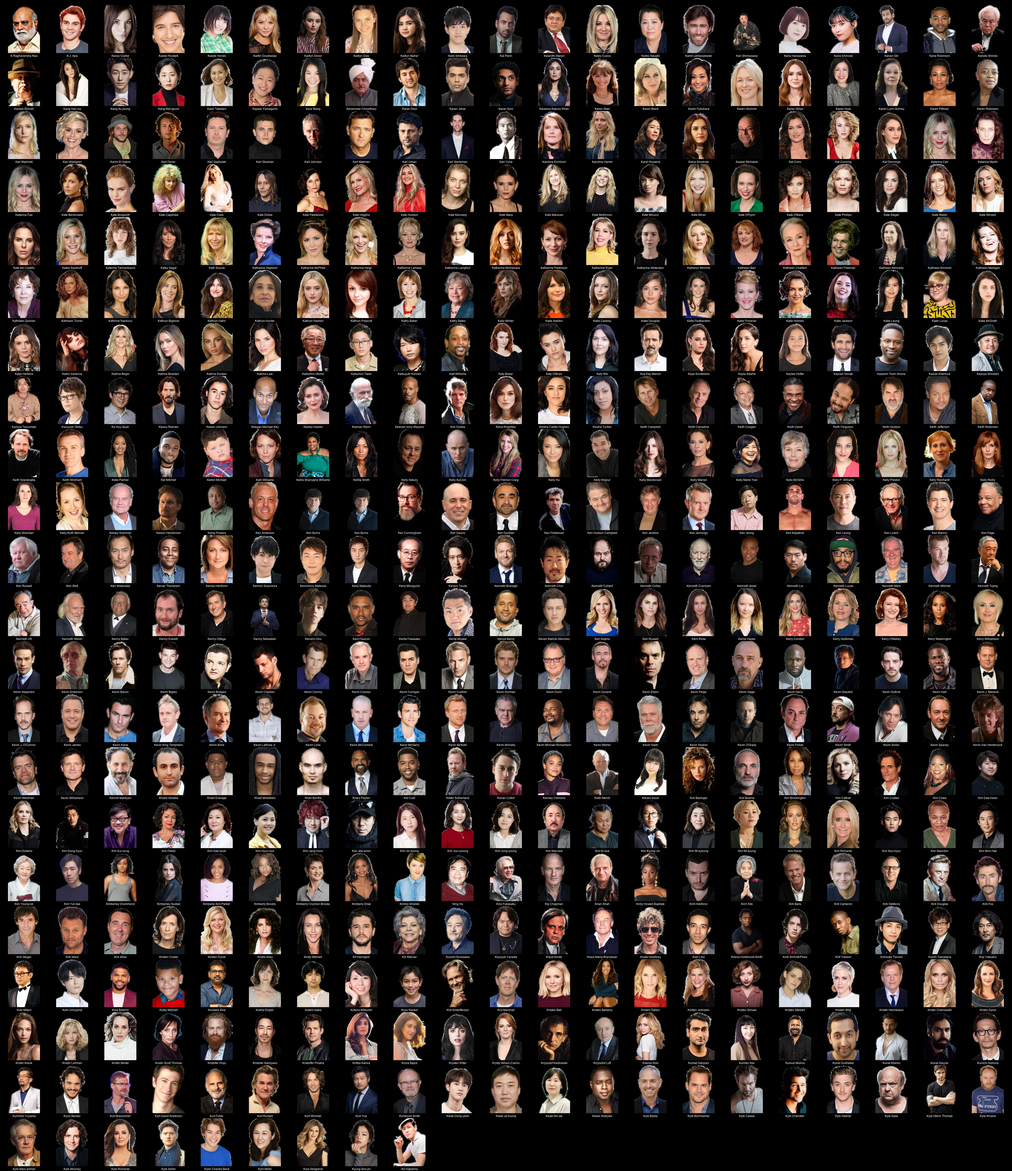
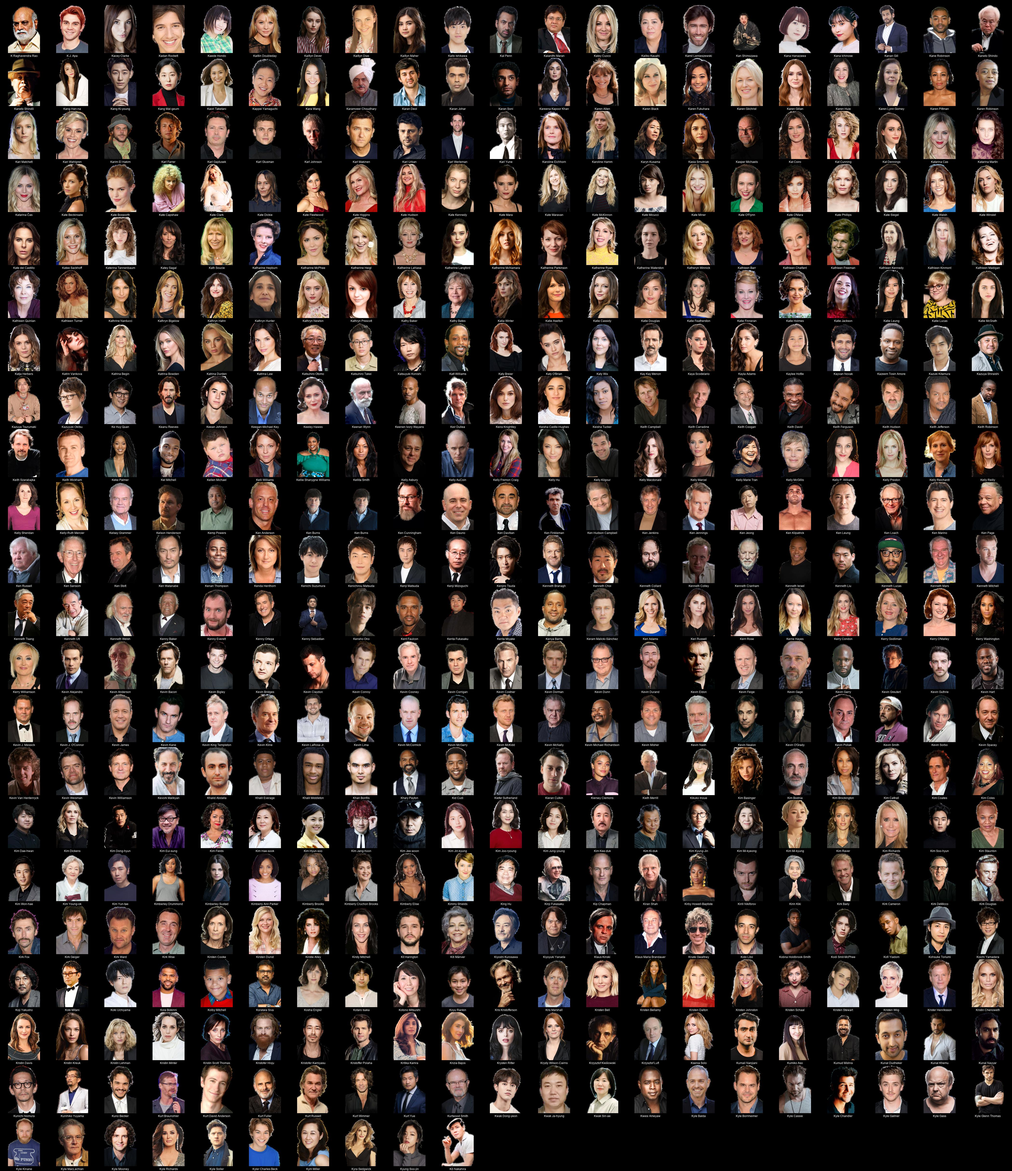
more grids

Changed region(s): [[0.0, 0.435, 0.9981, 1.0]]

diff --git a/README.md b/README.md
@@ -1,10 +1,10 @@
-# Kometa People Images - Transparent (transparent) (9348 Images)
+# Kometa People Images - Transparent (transparent) (9354 Images)
 
 <details><summary><a href="'">' (1 Images)</a></summary>
 
 * ['Weird Al' Yankovic](https://raw.githubusercontent.com/Kometa-Team/People-Images-transparent/master/'/Images/%27Weird%20Al%27%20Yankovic.png)
 </details>
-<details><summary><a href="A">A (764 Images)</a></summary>
+<details><summary><a href="A">A (765 Images)</a></summary>
 
 * [Aamir Khan](https://raw.githubusercontent.com/Kometa-Team/People-Images-transparent/master/A/Images/Aamir%20Khan.png)
 * [Aanand L. Rai](https://raw.githubusercontent.com/Kometa-Team/People-Images-transparent/master/A/Images/Aanand%20L.%20Rai.png)
@@ -561,6 +561,7 @@
 * [Annabelle Wallis](https://raw.githubusercontent.com/Kometa-Team/People-Images-transparent/master/A/Images/Annabelle%20Wallis.png)
 * [Annaleigh Ashford](https://raw.githubusercontent.com/Kometa-Team/People-Images-transparent/master/A/Images/Annaleigh%20Ashford.png)
 * [Annalisa Cochrane](https://raw.githubusercontent.com/Kometa-Team/People-Images-transparent/master/A/Images/Annalisa%20Cochrane.png)
+* [Anndi McAfee](https://raw.githubusercontent.com/Kometa-Team/People-Images-transparent/master/A/Images/Anndi%20McAfee.png)
 * [Anne Archer](https://raw.githubusercontent.com/Kometa-Team/People-Images-transparent/master/A/Images/Anne%20Archer.png)
 * [Anne Bancroft](https://raw.githubusercontent.com/Kometa-Team/People-Images-transparent/master/A/Images/Anne%20Bancroft.png)
 * [Anne Baxter](https://raw.githubusercontent.com/Kometa-Team/People-Images-transparent/master/A/Images/Anne%20Baxter.png)
@@ -771,7 +772,7 @@
 * [Azhar Usman](https://raw.githubusercontent.com/Kometa-Team/People-Images-transparent/master/A/Images/Azhar%20Usman.png)
 * [Aziz Ansari](https://raw.githubusercontent.com/Kometa-Team/People-Images-transparent/master/A/Images/Aziz%20Ansari.png)
 </details>
-<details><summary><a href="B">B (469 Images)</a></summary>
+<details><summary><a href="B">B (471 Images)</a></summary>
 
 * [B.J. Penn](https://raw.githubusercontent.com/Kometa-Team/People-Images-transparent/master/B/Images/B.J.%20Penn.png)
 * [BD Wong](https://raw.githubusercontent.com/Kometa-Team/People-Images-transparent/master/B/Images/BD%20Wong.png)
@@ -935,6 +936,7 @@
 * [Bilall Fallah](https://raw.githubusercontent.com/Kometa-Team/People-Images-transparent/master/B/Images/Bilall%20Fallah.png)
 * [Bill Allison](https://raw.githubusercontent.com/Kometa-Team/People-Images-transparent/master/B/Images/Bill%20Allison.png)
 * [Bill Bailey](https://raw.githubusercontent.com/Kometa-Team/People-Images-transparent/master/B/Images/Bill%20Bailey.png)
+* [Bill Block](https://raw.githubusercontent.com/Kometa-Team/People-Images-transparent/master/B/Images/Bill%20Block.png)
 * [Bill Burr](https://raw.githubusercontent.com/Kometa-Team/People-Images-transparent/master/B/Images/Bill%20Burr.png)
 * [Bill Burrows](https://raw.githubusercontent.com/Kometa-Team/People-Images-transparent/master/B/Images/Bill%20Burrows.png)
 * [Bill Burrud](https://raw.githubusercontent.com/Kometa-Team/People-Images-transparent/master/B/Images/Bill%20Burrud.png)
@@ -994,6 +996,7 @@
 * [Biswa Kalyan Rath](https://raw.githubusercontent.com/Kometa-Team/People-Images-transparent/master/B/Images/Biswa%20Kalyan%20Rath.png)
 * [Bjorgvin Arnarson](https://raw.githubusercontent.com/Kometa-Team/People-Images-transparent/master/B/Images/Bjorgvin%20Arnarson.png)
 * [Björk](https://raw.githubusercontent.com/Kometa-Team/People-Images-transparent/master/B/Images/Bj%C3%B6rk.png)
+* [Björn Kjellman](https://raw.githubusercontent.com/Kometa-Team/People-Images-transparent/master/B/Images/Bj%C3%B6rn%20Kjellman.png)
 * [Bjørn Floberg](https://raw.githubusercontent.com/Kometa-Team/People-Images-transparent/master/B/Images/Bj%C3%B8rn%20Floberg.png)
 * [Blair Jasin](https://raw.githubusercontent.com/Kometa-Team/People-Images-transparent/master/B/Images/Blair%20Jasin.png)
 * [Blake Baumgartner](https://raw.githubusercontent.com/Kometa-Team/People-Images-transparent/master/B/Images/Blake%20Baumgartner.png)
@@ -4796,7 +4799,7 @@
 * [Jürgen Prochnow](https://raw.githubusercontent.com/Kometa-Team/People-Images-transparent/master/J/Images/J%C3%BCrgen%20Prochnow.png)
 * [Jūzō Itami](https://raw.githubusercontent.com/Kometa-Team/People-Images-transparent/master/J/Images/J%C5%ABz%C5%8D%20Itami.png)
 </details>
-<details><summary><a href="K">K (450 Images)</a></summary>
+<details><summary><a href="K">K (451 Images)</a></summary>
 
 * [K Raghavendra Rao](https://raw.githubusercontent.com/Kometa-Team/People-Images-transparent/master/K/Images/K%20Raghavendra%20Rao.png)
 * [K.J. Apa](https://raw.githubusercontent.com/Kometa-Team/People-Images-transparent/master/K/Images/K.J.%20Apa.png)
@@ -5009,6 +5012,7 @@
 * [Ken Marino](https://raw.githubusercontent.com/Kometa-Team/People-Images-transparent/master/K/Images/Ken%20Marino.png)
 * [Ken Page](https://raw.githubusercontent.com/Kometa-Team/People-Images-transparent/master/K/Images/Ken%20Page.png)
 * [Ken Russell](https://raw.githubusercontent.com/Kometa-Team/People-Images-transparent/master/K/Images/Ken%20Russell.png)
+* [Ken Sansom](https://raw.githubusercontent.com/Kometa-Team/People-Images-transparent/master/K/Images/Ken%20Sansom.png)
 * [Ken Stott](https://raw.githubusercontent.com/Kometa-Team/People-Images-transparent/master/K/Images/Ken%20Stott.png)
 * [Ken Watanabe](https://raw.githubusercontent.com/Kometa-Team/People-Images-transparent/master/K/Images/Ken%20Watanabe.png)
 * [Kenan Thompson](https://raw.githubusercontent.com/Kometa-Team/People-Images-transparent/master/K/Images/Kenan%20Thompson.png)
@@ -5653,7 +5657,7 @@
 * [Léa Seydoux](https://raw.githubusercontent.com/Kometa-Team/People-Images-transparent/master/L/Images/L%C3%A9a%20Seydoux.png)
 * [Lúcio Andrey](https://raw.githubusercontent.com/Kometa-Team/People-Images-transparent/master/L/Images/L%C3%BAcio%20Andrey.png)
 </details>
-<details><summary><a href="M">M (868 Images)</a></summary>
+<details><summary><a href="M">M (870 Images)</a></summary>
 
 * [M'laah Kaur Singh](https://raw.githubusercontent.com/Kometa-Team/People-Images-transparent/master/M/Images/M%27laah%20Kaur%20Singh.png)
 * [M. Emmet Walsh](https://raw.githubusercontent.com/Kometa-Team/People-Images-transparent/master/M/Images/M.%20Emmet%20Walsh.png)
@@ -6163,6 +6167,7 @@
 * [Melissa Rauch](https://raw.githubusercontent.com/Kometa-Team/People-Images-transparent/master/M/Images/Melissa%20Rauch.png)
 * [Melissa Rivers](https://raw.githubusercontent.com/Kometa-Team/People-Images-transparent/master/M/Images/Melissa%20Rivers.png)
 * [Melissa Rosenberg](https://raw.githubusercontent.com/Kometa-Team/People-Images-transparent/master/M/Images/Melissa%20Rosenberg.png)
+* [Meliz Karlge](https://raw.githubusercontent.com/Kometa-Team/People-Images-transparent/master/M/Images/Meliz%20Karlge.png)
 * [Melvin Kakooza](https://raw.githubusercontent.com/Kometa-Team/People-Images-transparent/master/M/Images/Melvin%20Kakooza.png)
 * [Melvyn Hayes](https://raw.githubusercontent.com/Kometa-Team/People-Images-transparent/master/M/Images/Melvyn%20Hayes.png)
 * [Mena Massoud](https://raw.githubusercontent.com/Kometa-Team/People-Images-transparent/master/M/Images/Mena%20Massoud.png)
@@ -6389,6 +6394,7 @@
 * [Miguel Sapochnik](https://raw.githubusercontent.com/Kometa-Team/People-Images-transparent/master/M/Images/Miguel%20Sapochnik.png)
 * [Miguel Ángel Silvestre](https://raw.githubusercontent.com/Kometa-Team/People-Images-transparent/master/M/Images/Miguel%20%C3%81ngel%20Silvestre.png)
 * [Mikael Persbrandt](https://raw.githubusercontent.com/Kometa-Team/People-Images-transparent/master/M/Images/Mikael%20Persbrandt.png)
+* [Mikael Tornving](https://raw.githubusercontent.com/Kometa-Team/People-Images-transparent/master/M/Images/Mikael%20Tornving.png)
 * [Mikako Ichikawa](https://raw.githubusercontent.com/Kometa-Team/People-Images-transparent/master/M/Images/Mikako%20Ichikawa.png)
 * [Mikako Komatsu](https://raw.githubusercontent.com/Kometa-Team/People-Images-transparent/master/M/Images/Mikako%20Komatsu.png)
 * [Mike Birbiglia](https://raw.githubusercontent.com/Kometa-Team/People-Images-transparent/master/M/Images/Mike%20Birbiglia.png)

diff --git a/M/README.md b/M/README.md
@@ -1,4 +1,4 @@
-# Kometa People Images - Transparent (transparent) - M (868 Images)
+# Kometa People Images - Transparent (transparent) - M (870 Images)
 ![Grid](grid.jpg)
 
 * [M'laah Kaur Singh](https://raw.githubusercontent.com/Kometa-Team/People-Images-transparent/master/M/Images/M%27laah%20Kaur%20Singh.png)
@@ -509,6 +509,7 @@
 * [Melissa Rauch](https://raw.githubusercontent.com/Kometa-Team/People-Images-transparent/master/M/Images/Melissa%20Rauch.png)
 * [Melissa Rivers](https://raw.githubusercontent.com/Kometa-Team/People-Images-transparent/master/M/Images/Melissa%20Rivers.png)
 * [Melissa Rosenberg](https://raw.githubusercontent.com/Kometa-Team/People-Images-transparent/master/M/Images/Melissa%20Rosenberg.png)
+* [Meliz Karlge](https://raw.githubusercontent.com/Kometa-Team/People-Images-transparent/master/M/Images/Meliz%20Karlge.png)
 * [Melvin Kakooza](https://raw.githubusercontent.com/Kometa-Team/People-Images-transparent/master/M/Images/Melvin%20Kakooza.png)
 * [Melvyn Hayes](https://raw.githubusercontent.com/Kometa-Team/People-Images-transparent/master/M/Images/Melvyn%20Hayes.png)
 * [Mena Massoud](https://raw.githubusercontent.com/Kometa-Team/People-Images-transparent/master/M/Images/Mena%20Massoud.png)
@@ -735,6 +736,7 @@
 * [Miguel Sapochnik](https://raw.githubusercontent.com/Kometa-Team/People-Images-transparent/master/M/Images/Miguel%20Sapochnik.png)
 * [Miguel Ángel Silvestre](https://raw.githubusercontent.com/Kometa-Team/People-Images-transparent/master/M/Images/Miguel%20%C3%81ngel%20Silvestre.png)
 * [Mikael Persbrandt](https://raw.githubusercontent.com/Kometa-Team/People-Images-transparent/master/M/Images/Mikael%20Persbrandt.png)
+* [Mikael Tornving](https://raw.githubusercontent.com/Kometa-Team/People-Images-transparent/master/M/Images/Mikael%20Tornving.png)
 * [Mikako Ichikawa](https://raw.githubusercontent.com/Kometa-Team/People-Images-transparent/master/M/Images/Mikako%20Ichikawa.png)
 * [Mikako Komatsu](https://raw.githubusercontent.com/Kometa-Team/People-Images-transparent/master/M/Images/Mikako%20Komatsu.png)
 * [Mike Birbiglia](https://raw.githubusercontent.com/Kometa-Team/People-Images-transparent/master/M/Images/Mike%20Birbiglia.png)

diff --git a/K/README.md b/K/README.md
@@ -1,4 +1,4 @@
-# Kometa People Images - Transparent (transparent) - K (450 Images)
+# Kometa People Images - Transparent (transparent) - K (451 Images)
 ![Grid](grid.jpg)
 
 * [K Raghavendra Rao](https://raw.githubusercontent.com/Kometa-Team/People-Images-transparent/master/K/Images/K%20Raghavendra%20Rao.png)
@@ -212,6 +212,7 @@
 * [Ken Marino](https://raw.githubusercontent.com/Kometa-Team/People-Images-transparent/master/K/Images/Ken%20Marino.png)
 * [Ken Page](https://raw.githubusercontent.com/Kometa-Team/People-Images-transparent/master/K/Images/Ken%20Page.png)
 * [Ken Russell](https://raw.githubusercontent.com/Kometa-Team/People-Images-transparent/master/K/Images/Ken%20Russell.png)
+* [Ken Sansom](https://raw.githubusercontent.com/Kometa-Team/People-Images-transparent/master/K/Images/Ken%20Sansom.png)
 * [Ken Stott](https://raw.githubusercontent.com/Kometa-Team/People-Images-transparent/master/K/Images/Ken%20Stott.png)
 * [Ken Watanabe](https://raw.githubusercontent.com/Kometa-Team/People-Images-transparent/master/K/Images/Ken%20Watanabe.png)
 * [Kenan Thompson](https://raw.githubusercontent.com/Kometa-Team/People-Images-transparent/master/K/Images/Kenan%20Thompson.png)
